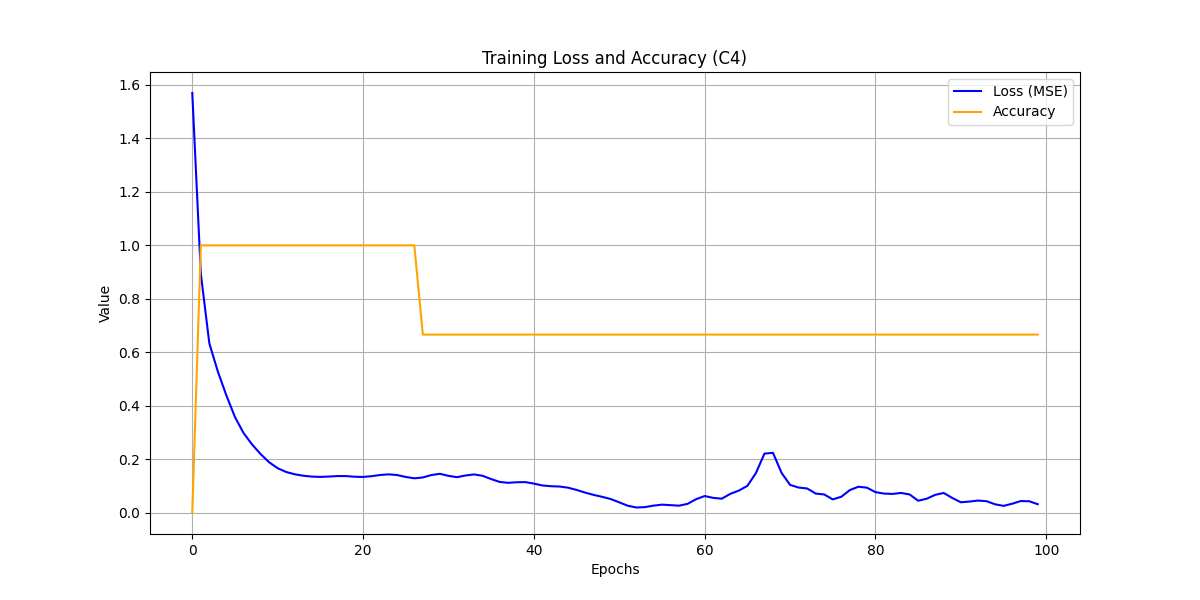
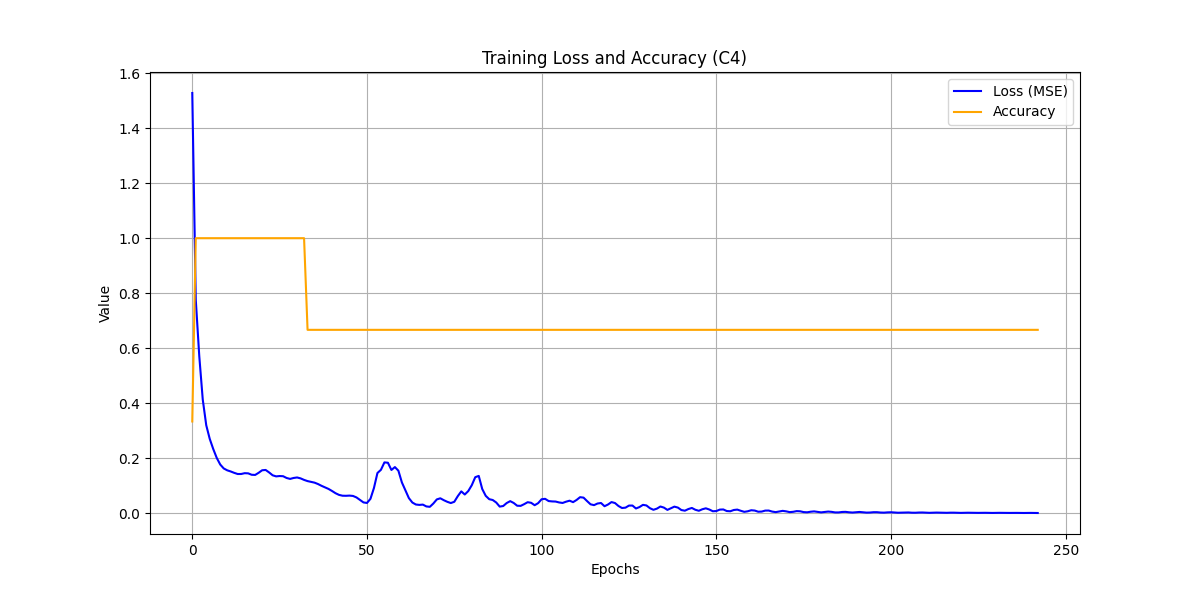
Fix: Actually it's supposed to be epoch=10000
Sorry...

diff --git a/main.py b/main.py
@@ -25,7 +25,7 @@ for network, training in pairs:
         output_size=10,
         lr=trainings[training][0],
         momentum=trainings[training][1],
-        epochs=100,
+        epochs=10000,
         goal_mse=0.0005,
         train="net/digitos.txt",
         log=str(network[0]) + str(training[0])
